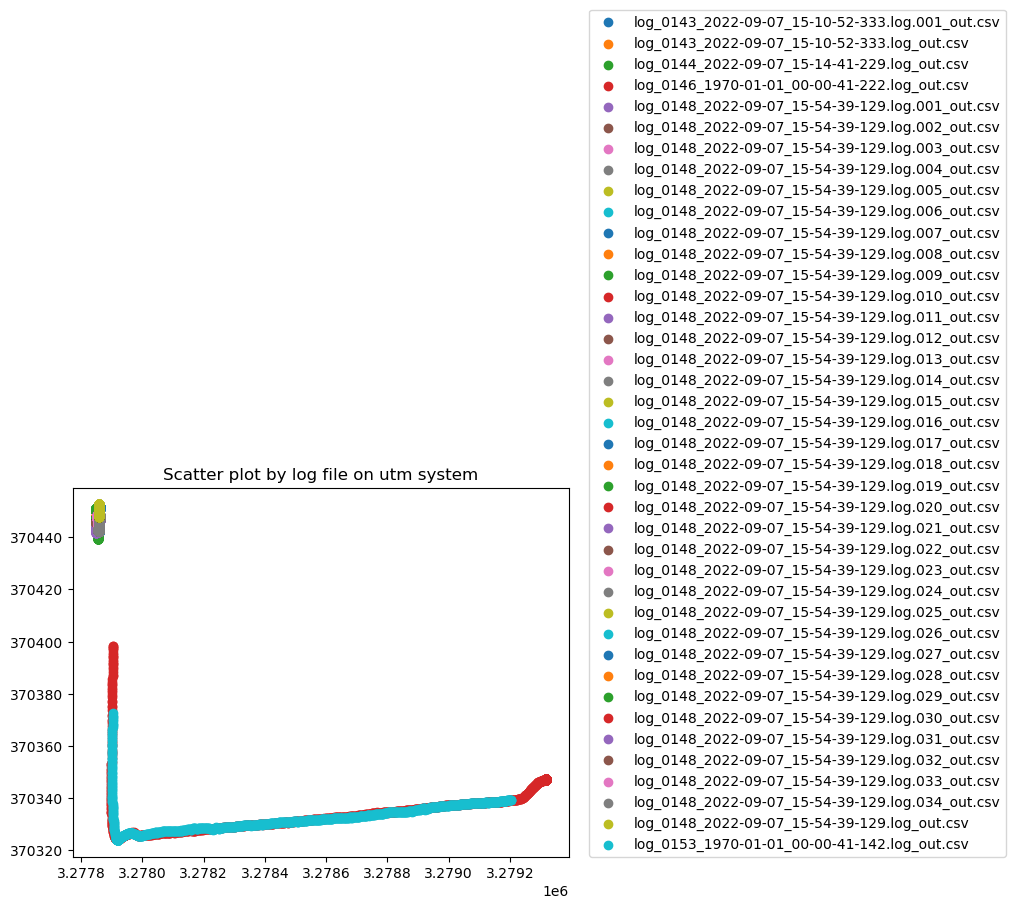
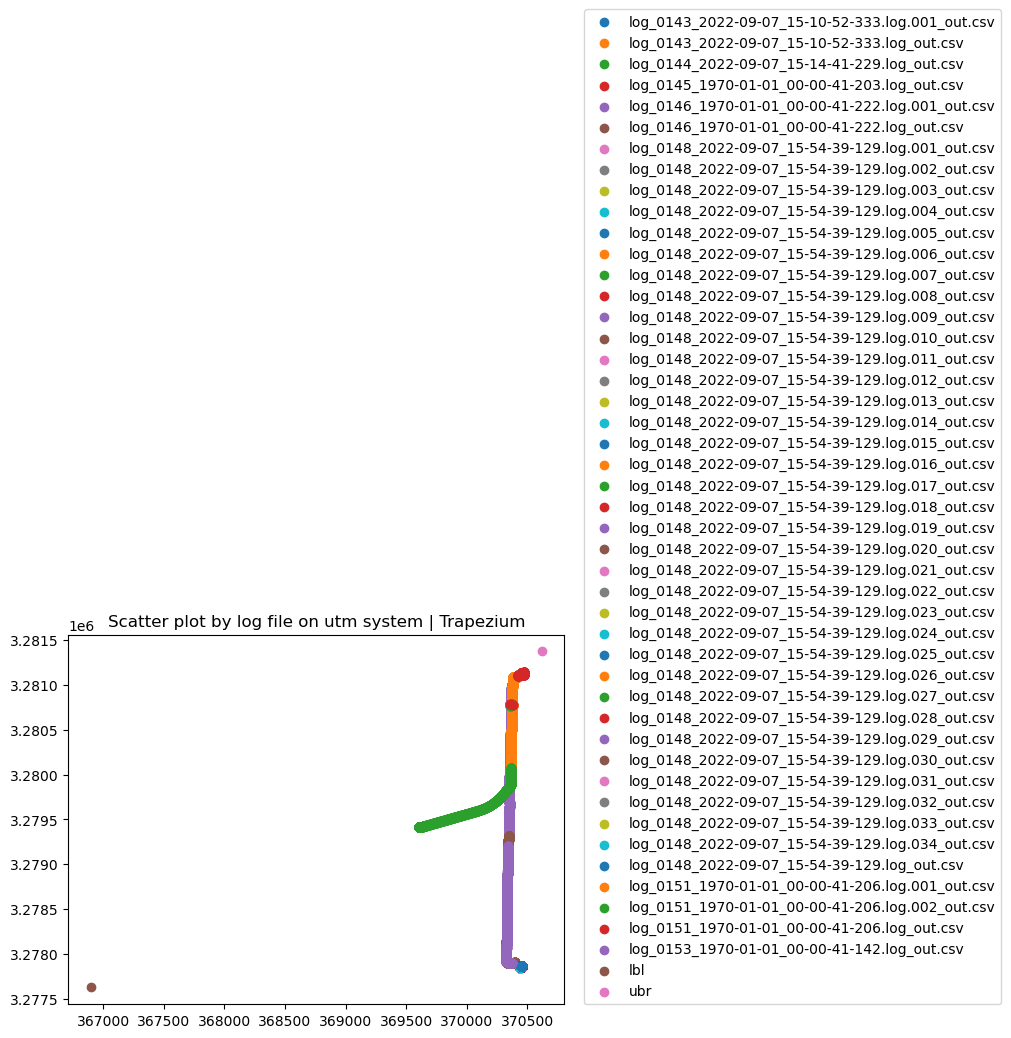
add title of plots and plotting lower b and upper b in scatter plot

Changed region(s): [[0.0, 0.0, 1.0, 1.0], [0.0, 0.5545, 0.5213, 0.7085], [0.1533, 0.4928, 0.4599, 0.5545]]

diff --git a/src/visualizer.py b/src/visualizer.py
@@ -83,9 +83,9 @@ class Visualizer:
             
 
 
-    def generate_scatter_plots(self, valid_files):
+    def generate_scatter_plots(self, valid_files, long_range, lat_range, main_args):
         """Generate scatter plot of valid files. First transform coordinates to utm,
-        the plotting all in one figure  
+        then plots all in one figure  
 
         :param valid_files: files that are within the design polygon    
         :type valid_files: list of paths
@@ -109,15 +109,26 @@ class Visualizer:
             for _, indx in df.iterrows():
 
                 u = utm.from_latlon(indx["latitude"], indx["longitude"])
-                # import pdb; pdb.set_trace()
-                y.append(u[0])
-                x.append(u[1])
+                
+                x.append(u[0])
+                y.append(u[1])
 
             
 
-            axes.scatter(x, y, label=str(f[100:]))
 
-        axes.set_title('Scatter plot by log file on utm system')   
+            axes.scatter(x, y, label=str(f[100:]))
+        # import pdb; pdb.set_trace()
+        y0, y1 = lat_range
+        x0, x1 = long_range
+
+        x0, y0 = utm.from_latlon(y0, x0)[0], utm.from_latlon(y0, x0)[1]
+        x1, y1 = utm.from_latlon(y1, x1)[0], utm.from_latlon(y1, x1)[1]
+
+
+        axes.scatter(x0, y0, label= 'lbl')
+        axes.scatter(x1, y1, label= 'ubr')
+        
+        axes.set_title('Scatter plot by log file on utm system | ' + main_args.study_area)   
         axes.legend(loc=(1.04, 0))
         
         fig.savefig('scatter_by_log', bbox_inches='tight')

diff --git a/main.py b/main.py
@@ -85,7 +85,7 @@ def run_logs_pipeline(args):
         vis = Visualizer()
         valid_files = vis.identify_csv_within_gnv(parent_path, main_args)
 
-        vis.generate_scatter_plots(valid_files)
+        vis.generate_scatter_plots(valid_files, long_range, lat_range, main_args)
 
 if __name__ == "__main__":
 
@@ -97,13 +97,13 @@ if __name__ == "__main__":
     parser.add_argument('--extract_logs', type=str_to_bool, default='False',
                         help='perform extraction of logs to csv')
 
-    parser.add_argument('--generate_htmls', type=str_to_bool, default='True',
+    parser.add_argument('--generate_htmls', type=str_to_bool, default='False',
                         help='genrates plots from CSV files with reasonable coordinates')
     
     parser.add_argument('--scatter_on', type=str_to_bool, default='True',
                         help='generate scatter plot by file name')
     
-    parser.add_argument('--study_area', type=str, default='Archer',
+    parser.add_argument('--study_area', type=str, default='Trapezium',
                         help='Define study area, Trapezium or by road')
 
     parser.add_argument('--long_range', type=tuple, default=(0, 0), 
